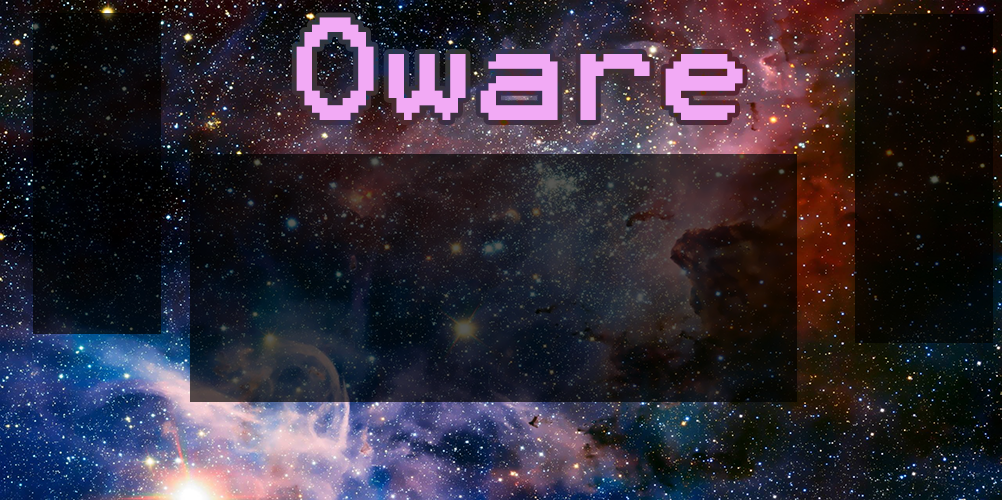
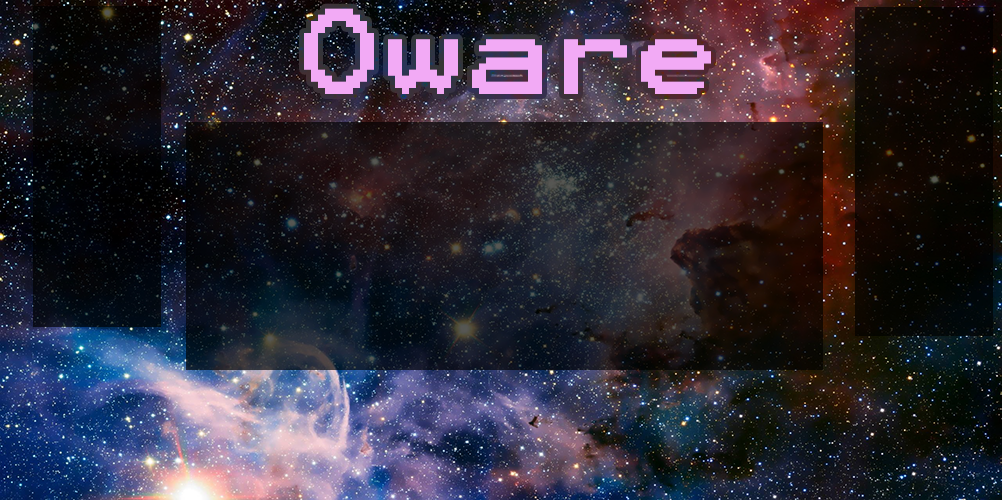
Further changes to final product.

diff --git a/src/View/layoutstyle.css b/src/View/layoutstyle.css
@@ -1,11 +1,16 @@
-.num-button  {
-    -fx-background-color: transparent;
-    /*   // -fx-background-radius: 50%;*/
-    -fx-background-insets: 0, 1, 2;
+.buttonBottom{
+    -fx-background-color: blueviolet;
+/*    -fx-background-insets: 0, 1, 2;*/
     -fx-font-family:  "Helvetica";
     -fx-text-fill:  white;
-    -fx-font-size:  50px; 
-
+}
+.num-button  {
+    -fx-background-color: transparent;
+    /*-fx-background-radius: 50%;*/
+    -fx-background-insets: 0, 0, 0;
+    -fx-font-family:  "Helvetica";
+    -fx-text-fill:  white;
+    -fx-font-size:  40px; 
 }
 .gridBackGround{
     -fx-background-color:transparent;
@@ -13,6 +18,7 @@
     -fx-background-position:center; 
     -fx-background-image: url('/View/background.png')
 }
+
 .mainBackGround{
     -fx-background-color:transparent;
     -fx-background-repeat: no-repeat;
@@ -35,6 +41,7 @@
         -moz-transform-style: preserve-3d;
         transform-style: preserve-3d;*/
     -fx-background-repeat: no-repeat;
+    -fx-background-size: 83px;
     -fx-background-image: url('/View/halo2.png')
 }
 

diff --git a/src/View/View.java b/src/View/View.java
@@ -1,8 +1,3 @@
-/*
- * To change this license header, choose License Headers in Project Properties.
- * To change this template file, choose Tools | Templates
- * and open the template in the editor.
- */
 package View;
 
 import Controller.Controller;
@@ -11,6 +6,7 @@ import java.util.ArrayList;
 import java.util.Random;
 import javafx.event.ActionEvent;
 import javafx.event.EventHandler;
+import javafx.event.EventType;
 import javafx.geometry.Insets;
 import javafx.geometry.Pos;
 import javafx.scene.Scene;
@@ -19,6 +15,7 @@ import javafx.scene.control.Label;
 import javafx.scene.input.MouseEvent;
 import javafx.scene.layout.BorderPane;
 import javafx.scene.layout.GridPane;
+import javafx.scene.layout.HBox;
 import javafx.stage.Stage;
 
 /**
@@ -42,10 +39,10 @@ public class View extends Stage {
     Label p1_Points_Top_Name;
     Label p2_Points_;
     Label p1_Points_;
+    Button terminate, go_Back;
 
     public void changeP1(int point) {
         p1_Points_.setText("" + point);
-        
 
     }
 
@@ -90,11 +87,11 @@ public class View extends Stage {
                 grid.add(temp, newColm, 2); // Row 2 and column "New Column" (start again from index 0 so its aligment to player 2)
             }
         }
-        
+
         for (int j = (player2.size() - 1); j >= 0; --j) {
             listOfButtons.add(player2.get(j));
         }
-        
+
         for (int i = 0; i < 6; ++i) {
             listOfButtons.add(player1.get(i));
         }
@@ -115,8 +112,8 @@ public class View extends Stage {
         int i = 0;
         for (Button x : listOfButtons) {
 //            System.out.println(x.getId());
-        	x.getStyleClass().add("num-button");
-        	
+            x.getStyleClass().add("num-button");
+
             x.setId("" + i);
 
             x.setText("" + values.get(i));
@@ -196,15 +193,40 @@ public class View extends Stage {
         listOfButtons = new ArrayList<>();
         player1 = new ArrayList<>();// Player 1 is AI 
         String css = this.getClass().getResource("/View/layoutstyle.css").toExternalForm();
-        
+
         player2 = new ArrayList<>(); // Player 2 is User 
 
         BorderPane root = new BorderPane();
+
+        //Setting the Bottom terminate and go back button // 
+        terminate = new Button("TERMINATE");
+        go_Back = new Button("Go Back");
+        terminate.getStyleClass().add("buttonBottom");
+        terminate.setOnAction(event -> {
+            c.getMainMenu().show();
+            
+        });
+        go_Back.getStyleClass().add("buttonBottom");
+        go_Back.setOnAction(event -> {
+            c.getMainMenu().show();
+            
+        });
+        
+
+        HBox bottom_Buttons = new HBox();
+        bottom_Buttons.setAlignment(Pos.CENTER);
+
+        bottom_Buttons.getChildren().addAll(terminate, go_Back);
+        bottom_Buttons.setPadding(new Insets(15, 12, 15, 12));
+        bottom_Buttons.setSpacing(30);
+        root.setBottom(bottom_Buttons);
+
+        // End bottom 
         Scene scene = new Scene(root, 1000, 500);
         scene.getStylesheets().clear();
         scene.getStylesheets().add(css);
         Button button1 = new Button("Hello");
-        GridPane grid = allButtons(values);
+        grid = allButtons(values);
         grid.setHgap(6);
         grid.setVgap(6);
 
@@ -267,9 +289,10 @@ public class View extends Stage {
         }
 
     }
+    
 
     private void settingLabelFX(Label l) {
-    	l.getStyleClass().add("scoreColor");
+        l.getStyleClass().add("scoreColor");
     }
 
     private void seettingButtonFX(Button b) {

diff --git a/src/View/MainWindow.java b/src/View/MainWindow.java
@@ -1,0 +1,67 @@
+package View;
+
+/**
+ *
+ * @author aking
+ */
+import Controller.Controller;
+import java.awt.event.ActionListener;
+import java.awt.event.MouseEvent;
+import javafx.application.Application;
+import javafx.event.ActionEvent;
+import javafx.event.EventHandler;
+import javafx.geometry.Pos;
+import javafx.scene.Scene;
+import javafx.scene.control.Button;
+import javafx.scene.control.Label;
+import javafx.scene.layout.StackPane;
+import javafx.scene.layout.VBox;
+import javafx.scene.text.Font;
+import javafx.scene.text.FontWeight;
+import javafx.scene.text.Text;
+import javafx.stage.Modality;
+import javafx.stage.Stage;
+
+public class MainWindow {
+
+    Button twoPlayerButton;
+
+    public MainWindow(Stage stageMain) {
+
+        Label owareLabel = new Label("Oware");
+        owareLabel.setFont(Font.font("Calibri", FontWeight.BOLD, 70));
+
+        Button onePlayerButton = new Button("One Player Mode");
+        Button twoPlayerButton = new Button("Two Player Mode");
+        VBox layout = new VBox(10);
+        layout.getChildren().addAll(owareLabel, onePlayerButton, twoPlayerButton);
+        layout.setAlignment(Pos.CENTER);
+        Scene scene = new Scene(layout, 600, 450);
+        stageMain.setScene(scene);
+        stageMain.setTitle("Oware Main Menu");
+//        MainWindow m  = this;
+//        m.show();
+
+        twoPlayerButton.setOnAction(new EventHandler<ActionEvent>() {
+
+            @Override
+
+            public void handle(ActionEvent event) {
+                Controller c = new Controller();
+                View v = new View(c.getValues());
+                v.setController(c);
+                c.setView(v, c.getValues());
+                v.show();
+                c.setMainMenu(stageMain);
+                stageMain.hide();
+
+            }  
+            
+        });
+        stageMain.show();
+    
+
+    }
+
+
+}

diff --git a/src/Controller/Controller.java b/src/Controller/Controller.java
@@ -1,8 +1,3 @@
-/*
- * To change this license header, choose License Headers in Project Properties.
- * To change this template file, choose Tools | Templates
- * and open the template in the editor.
- */
 package Controller;
 
 import Model.Board;
@@ -28,6 +23,7 @@ import javafx.stage.Stage;
 public class Controller {
 
     Board board;
+    
     boolean withCpu = false;
     Player cpu_Player1;
     Player manual_Player2;
@@ -36,6 +32,16 @@ public class Controller {
     public int player1;
     public int player2;
 
+    
+    Stage mainMenu;
+    public void setMainMenu(Stage parent){
+        mainMenu = parent;
+    }
+    public Stage getMainMenu(){
+        return mainMenu;
+    }
+    
+    
     public Controller() {
 
         // 
@@ -47,14 +53,8 @@ public class Controller {
         for (House i : board.getHouses()) {
             values.add(i.getSeeds());
         }
-//        int j = 0;
-//
-//        for (House i : board.getHouses()) {
-//        	if(j<=5&&j>=2){i.setSeeds(1);}else if (j>=0&&j<2){i.clearHouse();}
-//            values.add(i.getSeeds());
-//            j++;
-//        }
         
+     
 
     }
 
@@ -188,5 +188,11 @@ public void refreshGame(int winner){
     public Board getBoard() {
 		return board;
 	}
+
+    public ArrayList<Integer> getValues() {
+        return values;
+    }
+    
+    //terminate game window when the go back button is placed.  
 
 }

diff --git a/src/Controller/Main.java b/src/Controller/Main.java
@@ -1,10 +1,6 @@
-/*
- * To change this license header, choose License Headers in Project Properties.
- * To change this template file, choose Tools | Templates
- * and open the template in the editor.
- */
 package Controller;
 
+import View.MainWindow;
 import View.View;
 import javafx.application.Application;
 import javafx.stage.Stage;
@@ -21,13 +17,8 @@ public class Main extends Application {
 
     @Override
     public void start(Stage primaryStage) throws Exception {
-      
-        Controller c = new Controller();
-        View v  = new View(c.values);
-        v.setController(c);
-        c.setView(v, c.values);
-        
-        v.show();
+        MainWindow m = new MainWindow(primaryStage);
+    
         
               
     }

diff --git a/src/Testing/Testing.java b/src/Testing/Testing.java
@@ -1,6 +1,9 @@
 package Testing;
 
 import Controller.Controller;
+//import org.junit.runner.JUnitCore;
+//import org.junit.runner.Result;
+//import org.junit.runner.notification.Failure;
 
 public class Testing {
 
@@ -50,6 +53,14 @@ public class Testing {
 		} else {
 			System.out.println("Failed: sowing a house with 12 seeds works correctly");
 		}
+
+//		    // Replace MyTestClass by your JUnit tests class
+//		    Result result = JUnitCore.runClasses(MyPrimeTest.class);
+//		    for (Failure failure : result.getFailures()) {
+//		      System.out.println(failure.toString());
+//		    }
+//		    System.out.println(result.wasSuccessful());
+//		  }
 	}
 
 }

diff --git a/src/Testing/MyModelTest.java b/src/Testing/MyModelTest.java
@@ -1,7 +1,9 @@
 package Testing;
 
+import Controller.Controller;
+
 public class MyModelTest {
 
-	
+	Controller c = new Controller();
 	
 }
